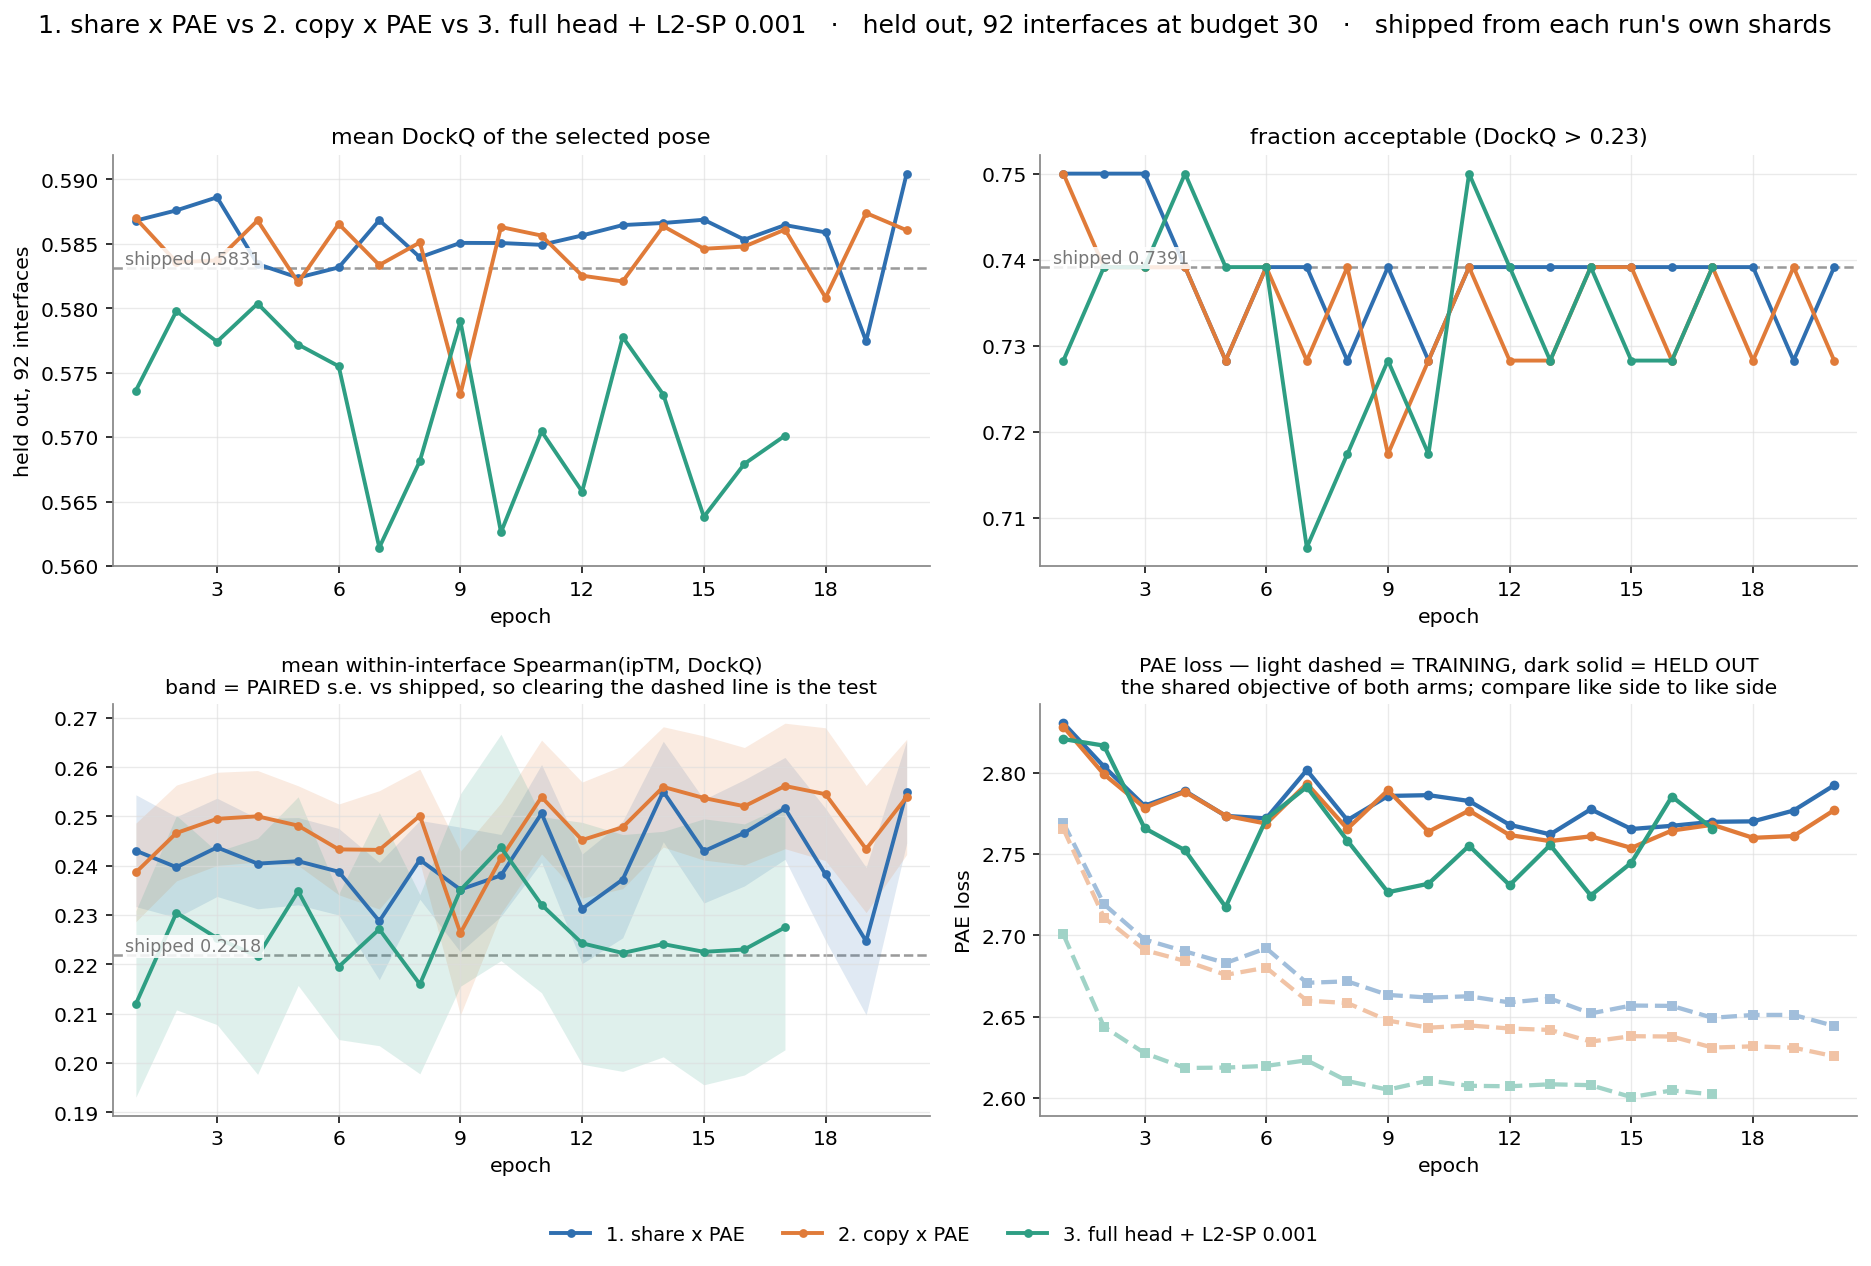
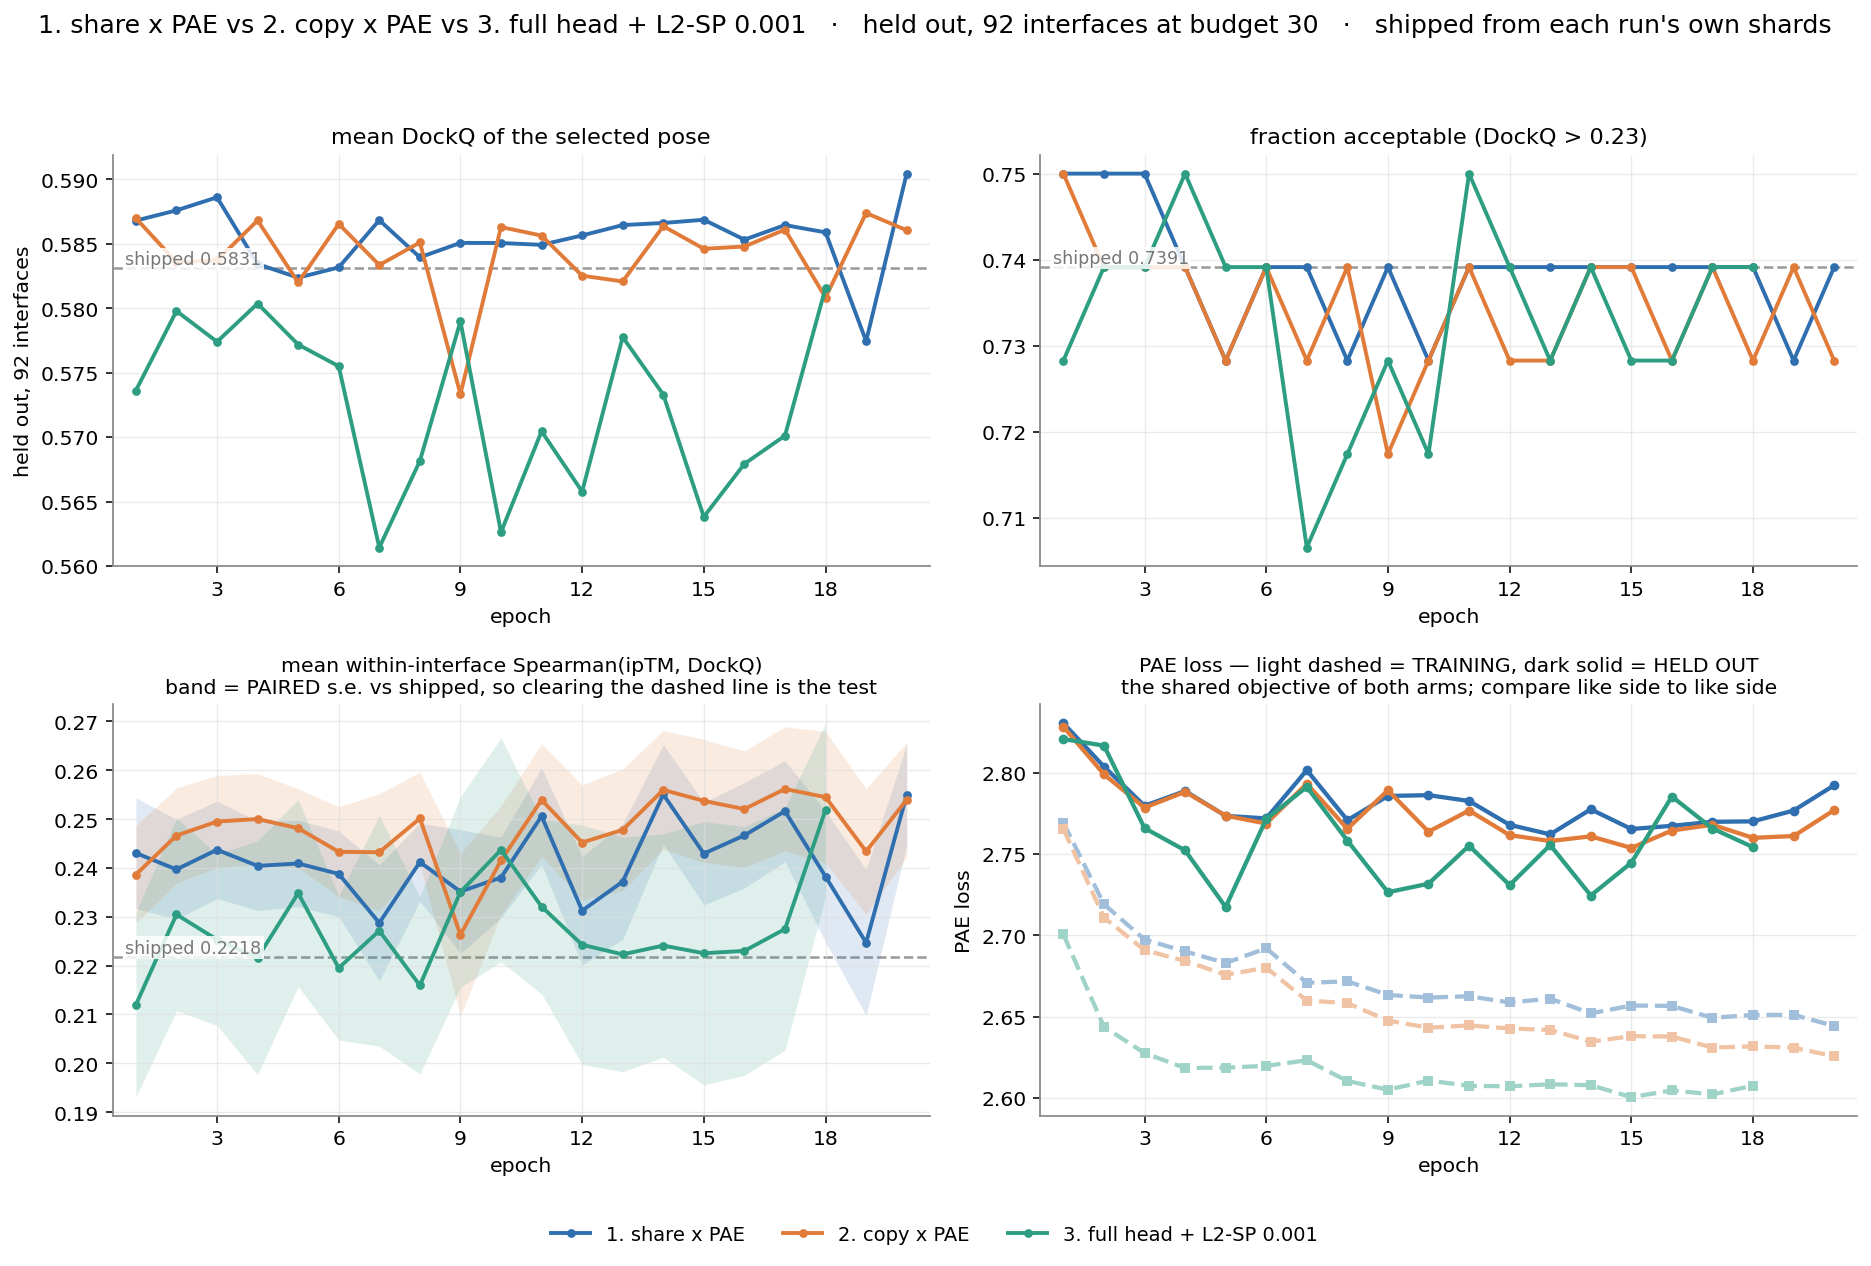
tv6hue epoch 18: DockQ 0.5816, the arm's best, 0.0014 under shipped
Beats epoch 4's 0.5803 and comes within 0.0014 of shipped 0.5830 -- on 92 interfaces that gap is
far inside the paired error, so epoch 18 is the first epoch that is not distinguishably worse than
shipped on DockQ. frac 0.7391 matches shipped too. It is one epoch, and epochs 15-17 were 0.5638,
0.5679, 0.5701, so this does not overturn 'never above shipped in 18 epochs'.

Epoch 17's rho cached at 0.2275, the highest since epoch 10 but still 0.006 over shipped.

Thirteenth epoch running with all three held-out shards clean.

Claude-Session: https://claude.ai/code/session_014t55QPNWnMkjqFi95YVBtG

Changed region(s): [[0.031, 0.5853, 0.496, 0.8009], [0.031, 0.5545, 0.062, 0.6161], [0.279, 0.7085, 0.31, 0.7393]]

diff --git a/extra_training/EXPERIMENTS.md b/extra_training/EXPERIMENTS.md
@@ -36,7 +36,7 @@ Oracle ceiling: DockQ 0.6926, frac 0.8587 → **headroom 0.1096**.
 
 ![arms overlay](figures/arms_overlay.png)
 
-*Regenerated 2026-10-27 4:45 AM EDT. Every number below comes from each run's own train_eval shards and rank_rho cache; shipped is recomputed from the same rows via `stored_iptm`.*
+*Regenerated 2026-10-27 5:17 AM EDT. Every number below comes from each run's own train_eval shards and rank_rho cache; shipped is recomputed from the same rows via `stored_iptm`.*
 
 Shipped on `valfull` (92 interfaces, budget 30): DockQ **0.5830**, frac **0.7391**, rho **0.2218**.
 
@@ -44,11 +44,11 @@ Shipped on `valfull` (92 interfaces, budget 30): DockQ **0.5830**, frac **0.7391
 |---|---|---|---|---|---|---|---|---|
 | 1 | `ip8ga4` | 1..20 | 0.5904 | 0.7391 | 0.2550 | +0.0074 ± 0.0040 | 2.6443 | 2.7923 |
 | 2 | `dntxmn` | 1..20 | 0.5860 | 0.7283 | 0.2540 | +0.0030 ± 0.0032 | 2.6256 | 2.7770 |
-| 3 | `tv6hue` | 1..17 | 0.5701 | 0.7391 | 0.2275 | -0.0129 ± 0.0052 | 2.6022 | 2.7657 |
+| 3 | `tv6hue` | 1..18 | 0.5816 | 0.7391 | 0.2519 | -0.0016 ± 0.0050 | 2.6076 | 2.7542 |
 
 - **1. share x PAE** (`ip8ga4`, 20 epochs): paired ΔDockQ mean **+0.0023**; rho 0.2550 (best 0.2551) vs shipped 0.2218; train PAE 2.7693 → 2.6443; val PAE 2.8305 → 2.7923, min 2.7621 at epoch 13.
 - **2. copy x PAE** (`dntxmn`, 20 epochs): paired ΔDockQ mean **+0.0011**; rho 0.2540 (best 0.2562) vs shipped 0.2218; train PAE 2.7654 → 2.6256; val PAE 2.8283 → 2.7770, min 2.7538 at epoch 15.
-- **3. full head + L2-SP 0.001** (`tv6hue`, 17 epochs): paired ΔDockQ mean **-0.0111**; rho 0.2275 (best 0.2437) vs shipped 0.2218; train PAE 2.7005 → 2.6022; val PAE 2.8207 → 2.7657, min 2.7174 at epoch 5.
+- **3. full head + L2-SP 0.001** (`tv6hue`, 18 epochs): paired ΔDockQ mean **-0.0106**; rho 0.2519 (best 0.2519) vs shipped 0.2218; train PAE 2.7005 → 2.6076; val PAE 2.8207 → 2.7542, min 2.7174 at epoch 5.
 
 <!-- AUTO:END -->
 
